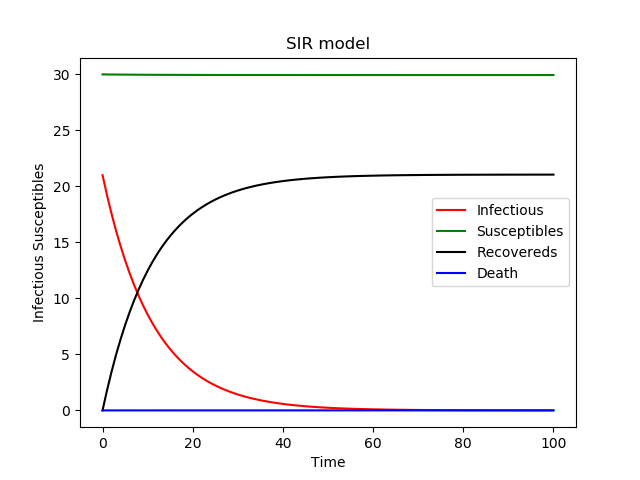
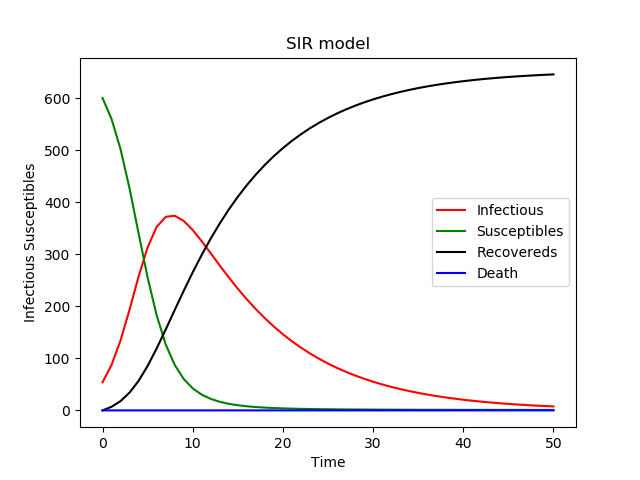
feat: add SIR

diff --git a/src/components/Chip/List.vue b/src/components/Chip/List.vue
@@ -34,34 +34,14 @@
         <el-table-column label="芯片参数" prop="chip_desc"></el-table-column>
         <el-table-column label="芯片数量" prop="chip_number"></el-table-column>
         <el-table-column label="CT值阈值" prop="color_mumber"></el-table-column>
-        <!-- <el-table-column label="芯片曲线颜色">
-          <template slot-scope="scope">
-            <div>
-              <span>
-                {{ scope.row.color_mumber.includes("1") ? "红" : "" }}</span
-              >
-              <span>
-                {{ scope.row.color_mumber.includes("2") ? "绿" : "" }}</span
-              >
-              <span>
-                {{ scope.row.color_mumber.includes("3") ? "黄" : "" }}</span
-              >
-              <span>
-                {{ scope.row.color_mumber.includes("4") ? "橙" : "" }}</span
-              >
-              <span>
-                {{ scope.row.color_mumber.includes("5") ? "蓝" : "" }}</span
-              >
-            </div>
-          </template>
-        </el-table-column> -->
+
         <el-table-column label="芯片曲线虚实">
           <template slot-scope="scope">
             <div>
               {{
                 {
                   1: "虚",
-                  "0": "实"
+                  "0": "实",
                 }[scope.row.line]
               }}
             </div>
@@ -124,6 +104,13 @@
             :min="1"
           ></el-input-number>
         </el-form-item>
+        <el-form-item label="感染系数" prop="total_cat">
+          <el-input v-model="chipForm.total_cat[0]"></el-input> </el-form-item
+        ><el-form-item label="治愈系数" prop="total_cat">
+          <el-input v-model="chipForm.total_cat[1]"></el-input> </el-form-item
+        ><el-form-item label="易感人数" prop="total_cat">
+          <el-input v-model="chipForm.total_cat[2]"></el-input>
+        </el-form-item>
       </el-form>
       <span slot="footer" class="dialog-footer">
         <el-button @click="handleClose">取 消</el-button>
@@ -139,33 +126,10 @@
 export default {
   data() {
     return {
-      // 曲线颜色选择
-      options: [
-        {
-          value: 1,
-          label: "红"
-        },
-        {
-          value: 2,
-          label: "绿"
-        },
-        {
-          value: 3,
-          label: "黄"
-        },
-        {
-          value: 4,
-          label: "橙"
-        },
-        {
-          value: 5,
-          label: "蓝"
-        }
-      ],
       queryInfo: {
         query: "",
         pagenum: 1,
-        pagesize: 10
+        pagesize: 10,
       },
       // 芯片列表
       chipList: [],
@@ -176,9 +140,10 @@ export default {
         chipDesc: "",
         chipName: "",
         chipNum: 0,
-        chipColor: ""
+        chipColor: "",
+        total_cat: [1, 1, 1],
       },
-      curItem: ""
+      curItem: "",
     };
   },
   created() {
@@ -194,11 +159,11 @@ export default {
         "chips/" + this.curItem.chip_id,
         {
           ...this.curItem,
-          total_cat: "1,1,1",
+          total_cat: this.chipForm.total_cat.join(","),
           chip_desc: this.chipForm.chipDesc,
           chip_number: this.chipForm.chipNum,
           chip_name: this.chipForm.chipName,
-          color_mumber: this.chipForm.chipColor
+          color_mumber: this.chipForm.chipColor,
         }
       );
 
@@ -219,11 +184,16 @@ export default {
       this.chipForm.chipDesc = item.chip_desc;
       this.chipForm.chipNum = item.chip_number;
       this.chipForm.chipColor = Number(item.color_mumber);
+      this.chipForm.total_cat = [
+        item.cat_one_id,
+        item.cat_two_id,
+        item.cat_three_id,
+      ];
     },
     // 根据分页获取对应的芯片列表
     async getChipsList() {
       const { data: res } = await this.$http.get("chips", {
-        params: this.queryInfo
+        params: this.queryInfo,
       });
       if (res.meta.status !== 200) {
         return this.$message.error("获取芯片列表失败！");
@@ -247,9 +217,9 @@ export default {
         {
           confirmButtonText: "确定",
           cancelButtonText: "取消",
-          type: "warning"
+          type: "warning",
         }
-      ).catch(err => err);
+      ).catch((err) => err);
       if (confirmResult !== "confirm") {
         return this.$message.info("已取消删除！");
       }
@@ -262,8 +232,8 @@ export default {
     },
     goAddPage() {
       this.$router.push("/statics/add");
-    }
-  }
+    },
+  },
 };
 </script>
 

diff --git a/src/components/Chip/Add.vue b/src/components/Chip/Add.vue
@@ -24,11 +24,8 @@
         align-center
       >
         <el-step title="基本信息"></el-step>
-        <!-- <el-step title="芯片参数"></el-step> -->
-        <!-- <el-step title="芯片属性"></el-step> -->
-        <el-step title="芯片内容"></el-step>
 
-        <!-- <el-step title="完成"></el-step> -->
+        <el-step title="芯片内容"></el-step>
       </el-steps>
 
       <!-- Tab栏 -->
@@ -52,20 +49,28 @@
             </el-form-item>
           </el-tab-pane>
           <el-tab-pane label="芯片内容" name="2">
-            <el-form-item label="芯片参数" prop="chip_desc">
-              <el-input v-model="addForm.chip_desc"></el-input>
-            </el-form-item>
             <el-form-item label="CT值阈值" prop="color_mumber">
-              <el-input-number
+              <el-input type="number"
                 v-model="addForm.color_mumber"
                 :min="1"
-              ></el-input-number>
+              ></el-input>
             </el-form-item>
             <el-form-item label="芯片曲线虚实" prop="line">
               <el-radio v-model="addForm.line" label="1">虚</el-radio>
               <el-radio v-model="addForm.line" label="0">实</el-radio>
             </el-form-item>
-
+            <el-form-item label="芯片参数" prop="chip_desc">
+              <el-input v-model="addForm.chip_desc"></el-input>
+            </el-form-item>
+            <el-form-item label="感染系数" prop="chip_desc">
+              <el-input v-model="addForm.total_cat[0]"></el-input>
+            </el-form-item>
+            <el-form-item label="治愈系数" prop="chip_desc">
+              <el-input v-model="addForm.total_cat[1]"></el-input>
+            </el-form-item>
+            <el-form-item label="易感染人数" prop="chip_desc">
+              <el-input v-model="addForm.total_cat[2]"></el-input>
+            </el-form-item>
             <el-button type="primary" class="btnAdd" @click="addChip"
               >添加芯片</el-button
             >
@@ -96,7 +101,7 @@ export default {
         chip_desc: "",
         chip_number: 0,
         // 芯片所属分类数组
-        total_cat: 1,
+        total_cat: [1, 1, 1],
         // 图片的数组
         pics: [],
         // 芯片详情描述
@@ -195,16 +200,9 @@ export default {
     addChip() {
       this.$refs.addFormRef.validate(async (valid) => {
         if (!valid) return this.$message.error("请填写必要的表单项！");
-        // 发送请求前：需对提交的表单进行处理total_cat attrs
-        // this.addForm.total_cat = this.addForm.total_cat.join(',')
-        // 以上写法不对：级联选择器绑定的对象total_cat要求是数组对象
-        // 解决办法: 包：lodash 方法（深拷贝）：cloneDeep(boj)
 
-        // 将this.addForm进行深拷贝
         const form = _.cloneDeep(this.addForm);
-        form.total_cat = [form.total_cat, form.total_cat, form.total_cat].join(
-          ","
-        );
+        form.total_cat = form.total_cat.join(",");
 
         // 处理动态参数
         this.manyTableData.forEach((item) => {

diff --git a/src/components/Home.vue b/src/components/Home.vue
@@ -1,5 +1,5 @@
 <template>
-  <el-container style="height:100%">
+  <el-container style="min-height: 100vh">
     <!-- 头部 -->
     <el-header>
       <div>
@@ -8,7 +8,7 @@
       <el-button type="info" @click="logout">退出</el-button>
     </el-header>
     <!-- 主体 -->
-    <el-container style="height:100%">
+    <el-container style="height: 100%">
       <!-- 侧边栏 -->
       <el-aside :width="isCollapse ? '64px' : '200px'">
         <div class="toggle-button" @click="togleCollapse">|||</div>
@@ -55,7 +55,7 @@
         </el-menu>
       </el-aside>
       <!-- 内容主体 -->
-      <el-main style="height:100%">
+      <el-main style="height: 100%,min-height: 100vh">
         <router-view></router-view>
       </el-main>
     </el-container>
@@ -69,16 +69,16 @@ export default {
       // 左侧菜单数据
       menuList: [],
       iconObj: {
-        "125": "iconfont icon-user",
-        "103": "iconfont icon-tijikongjian",
-        "101": "iconfont icon-shangpin",
-        "102": "iconfont icon-danju",
-        "145": "iconfont icon-baobiao"
+        125: "iconfont icon-user",
+        103: "iconfont icon-tijikongjian",
+        101: "iconfont icon-shangpin",
+        102: "iconfont icon-danju",
+        145: "iconfont icon-baobiao",
       },
       // 默认不折叠
       isCollapse: false,
       // 被激活导航地址
-      activePath: ""
+      activePath: "",
     };
   },
   created() {
@@ -105,14 +105,15 @@ export default {
     // 保存连接的激活地址
     saveNavState(activePath) {
       window.sessionStorage.setItem("activePath", activePath);
-    }
-  }
+    },
+  },
 };
 </script>
 
 <style lang="less" scoped>
 .el-container {
   height: 100%;
+  min-height: 100vh;
 }
 .el-header {
   background-color: #373f41;

diff --git a/src/components/report/Report2.vue b/src/components/report/Report2.vue
@@ -15,7 +15,7 @@
       element-loading-spinner="el-icon-loading"
     >
       <el-date-picker
-      clearable="false"
+      :clearable='false'
         v-model="value2"
         type="daterange"
         align="right"
@@ -51,8 +51,9 @@
       <div id="equit" style="width: 100%; height: 400px"></div>
 
       <div class="SIR" v-if="showSIR">
-        <img width="50%" src="../../assets/result.png" alt="" />
-        <img width="50%" src="../../assets/model.png" alt="" />
+        <!-- <img width="50%" src="../../assets/result.png" alt="" />
+        <img width="50%" src="../../assets/model.png" alt="" /> -->
+        <div id="model" style="width: 50%; height: 400px"></div>
       </div>
     </el-card>
   </div>
@@ -243,6 +244,10 @@ export default {
         this.showSIR = false
       } else {
         this.showSIR = true
+      }
+
+      if (!res.data.res.all.length) {
+        this.showSIR = false
       }
 
       this.handleDay(res.data.res);

diff --git a/src/components/report/ReportLog.vue b/src/components/report/ReportLog.vue
@@ -49,7 +49,7 @@ export default {
   methods: {
     // 根据分页获取对应的芯片列表
     async getLogsList() {
-      this.$http.get("reports/type/2").then(res => {
+      this.$http.get("reports/type?typeid=2").then(res => {
         const data = res.data.data;
         if (res.data.meta.status !== 200) {
           return this.$message.error("获取日志列表失败！");

diff --git a/src/components/report/Report.vue b/src/components/report/Report.vue
@@ -261,11 +261,11 @@ export default {
 }
 #china_map_box {
   background-color: #fff;
-  height: 90%;
+  height: 100%;
   position: relative;
 }
 #china_map_box #china_map {
-  height: 100%;
+  height: 90%;
 }
 #china_map_box .china_map_logo {
   position: absolute;

diff --git a/src/components/Login.vue b/src/components/Login.vue
@@ -88,7 +88,8 @@ export default {
 <style lang="less" scoped>
 .login_container {
   background: url(../assets/img/R-C.jpeg) no-repeat;
-  height: 100%;
+  // background-color: red;
+  height: 100vh;
   width: 100%;
   background-size: cover;
 }
